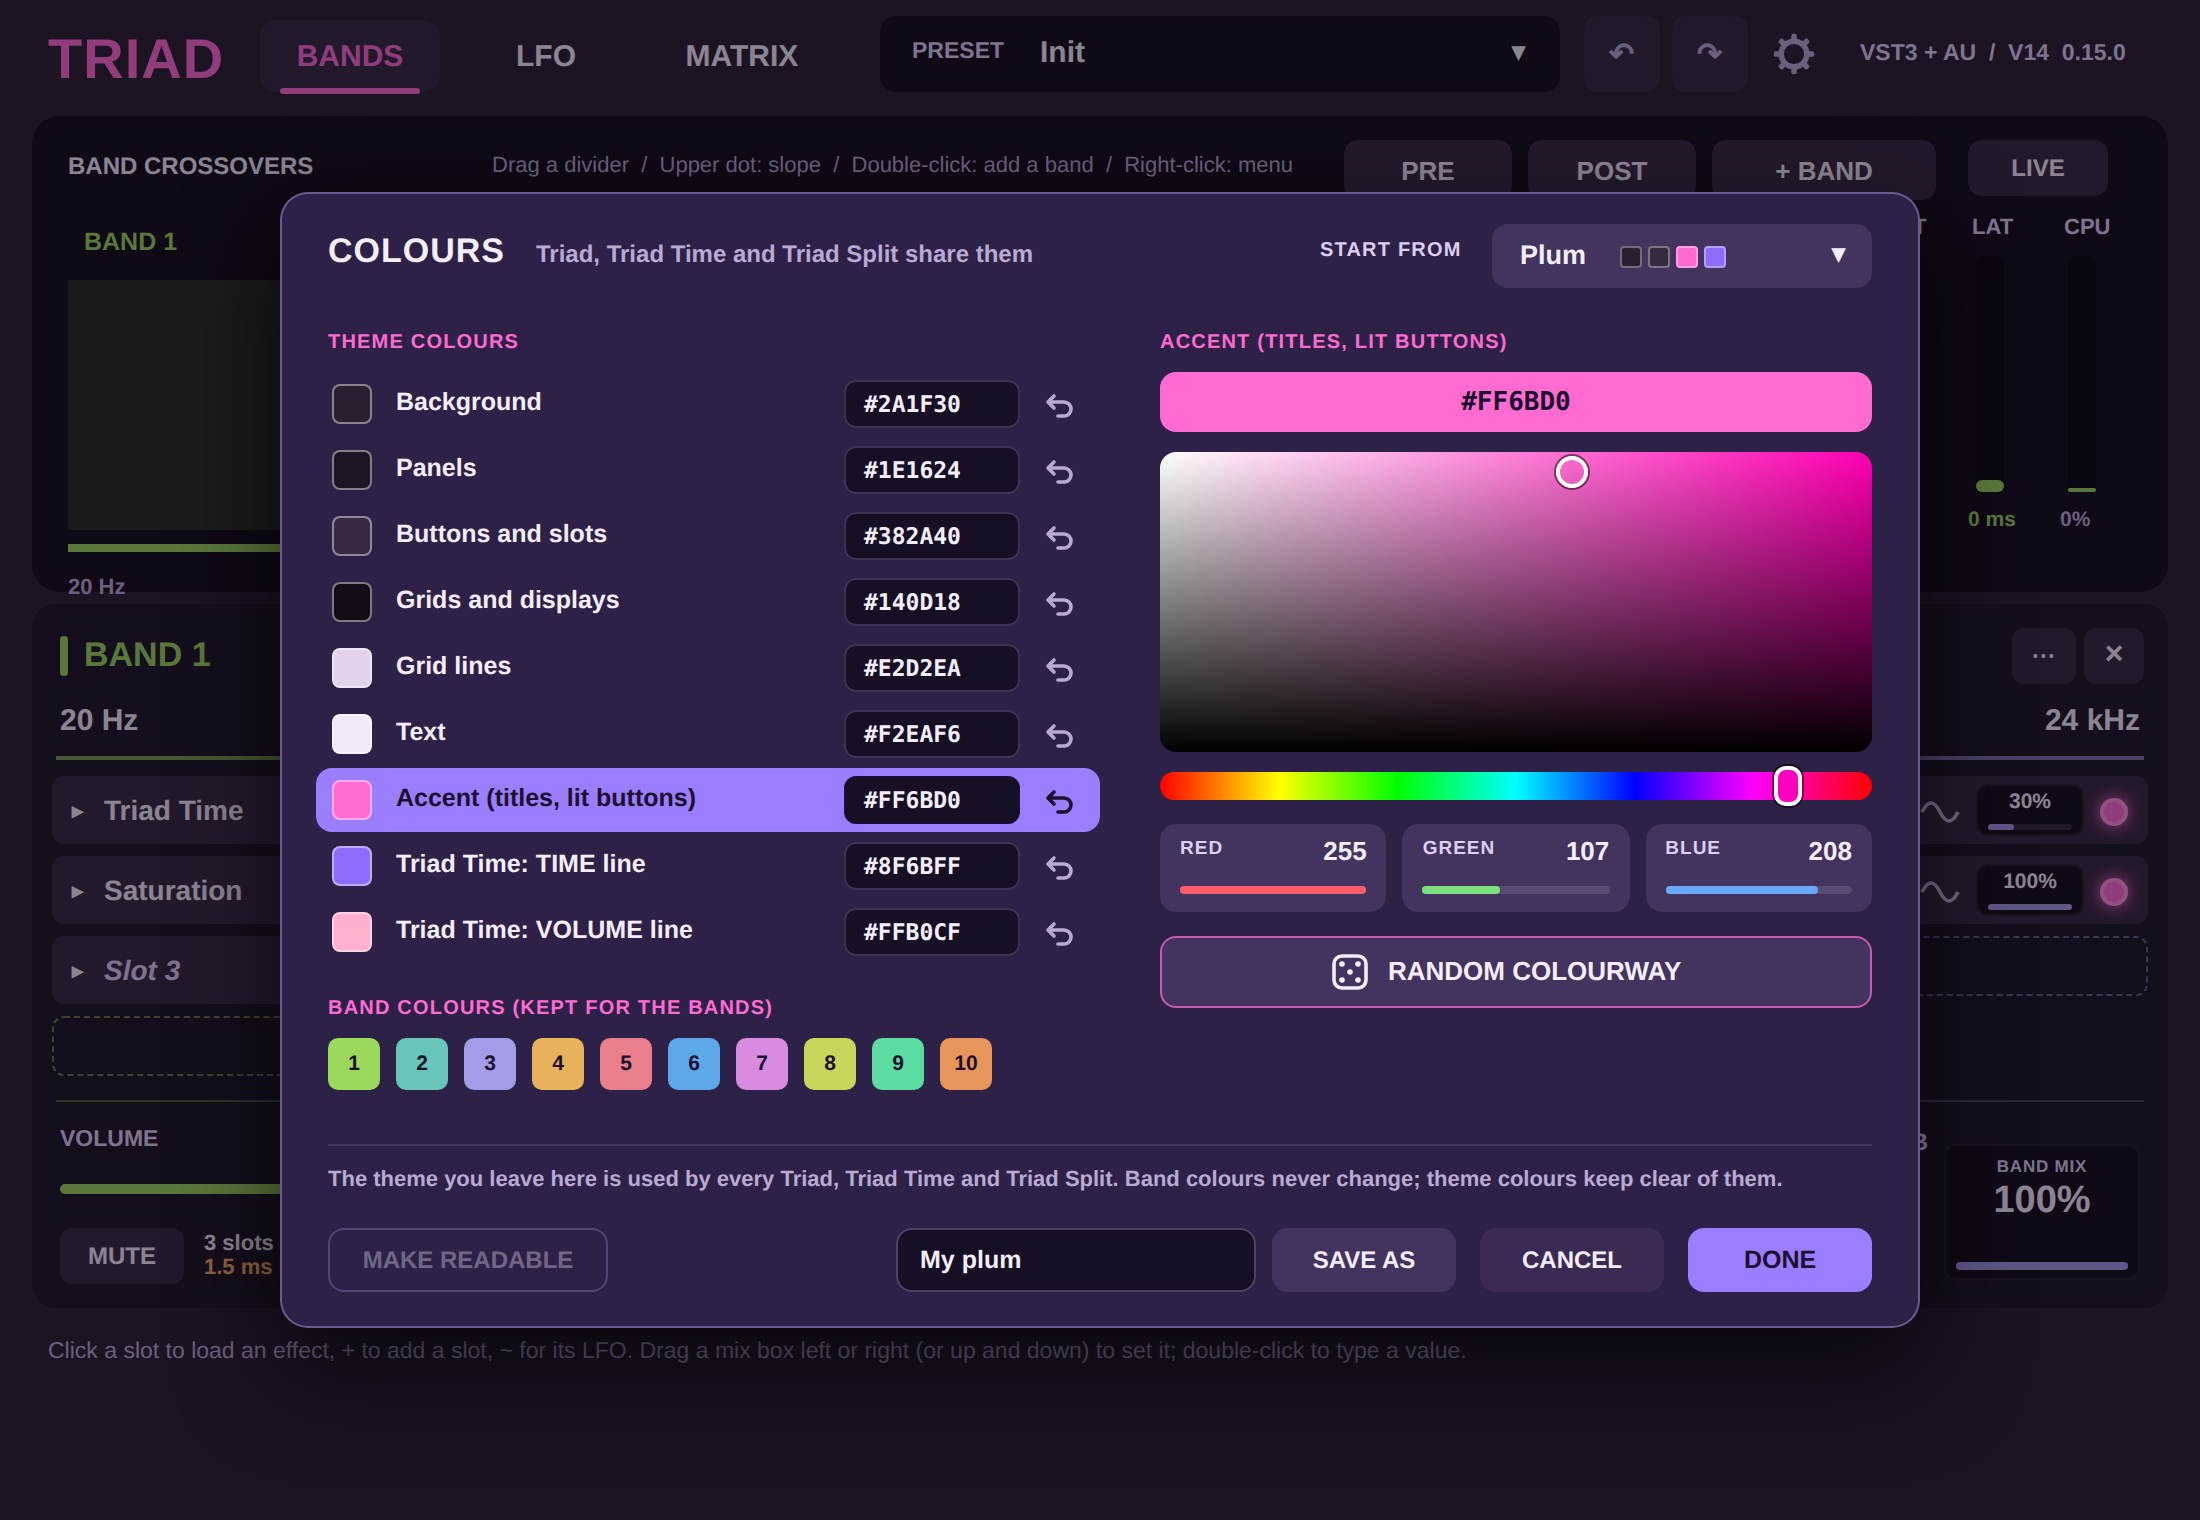
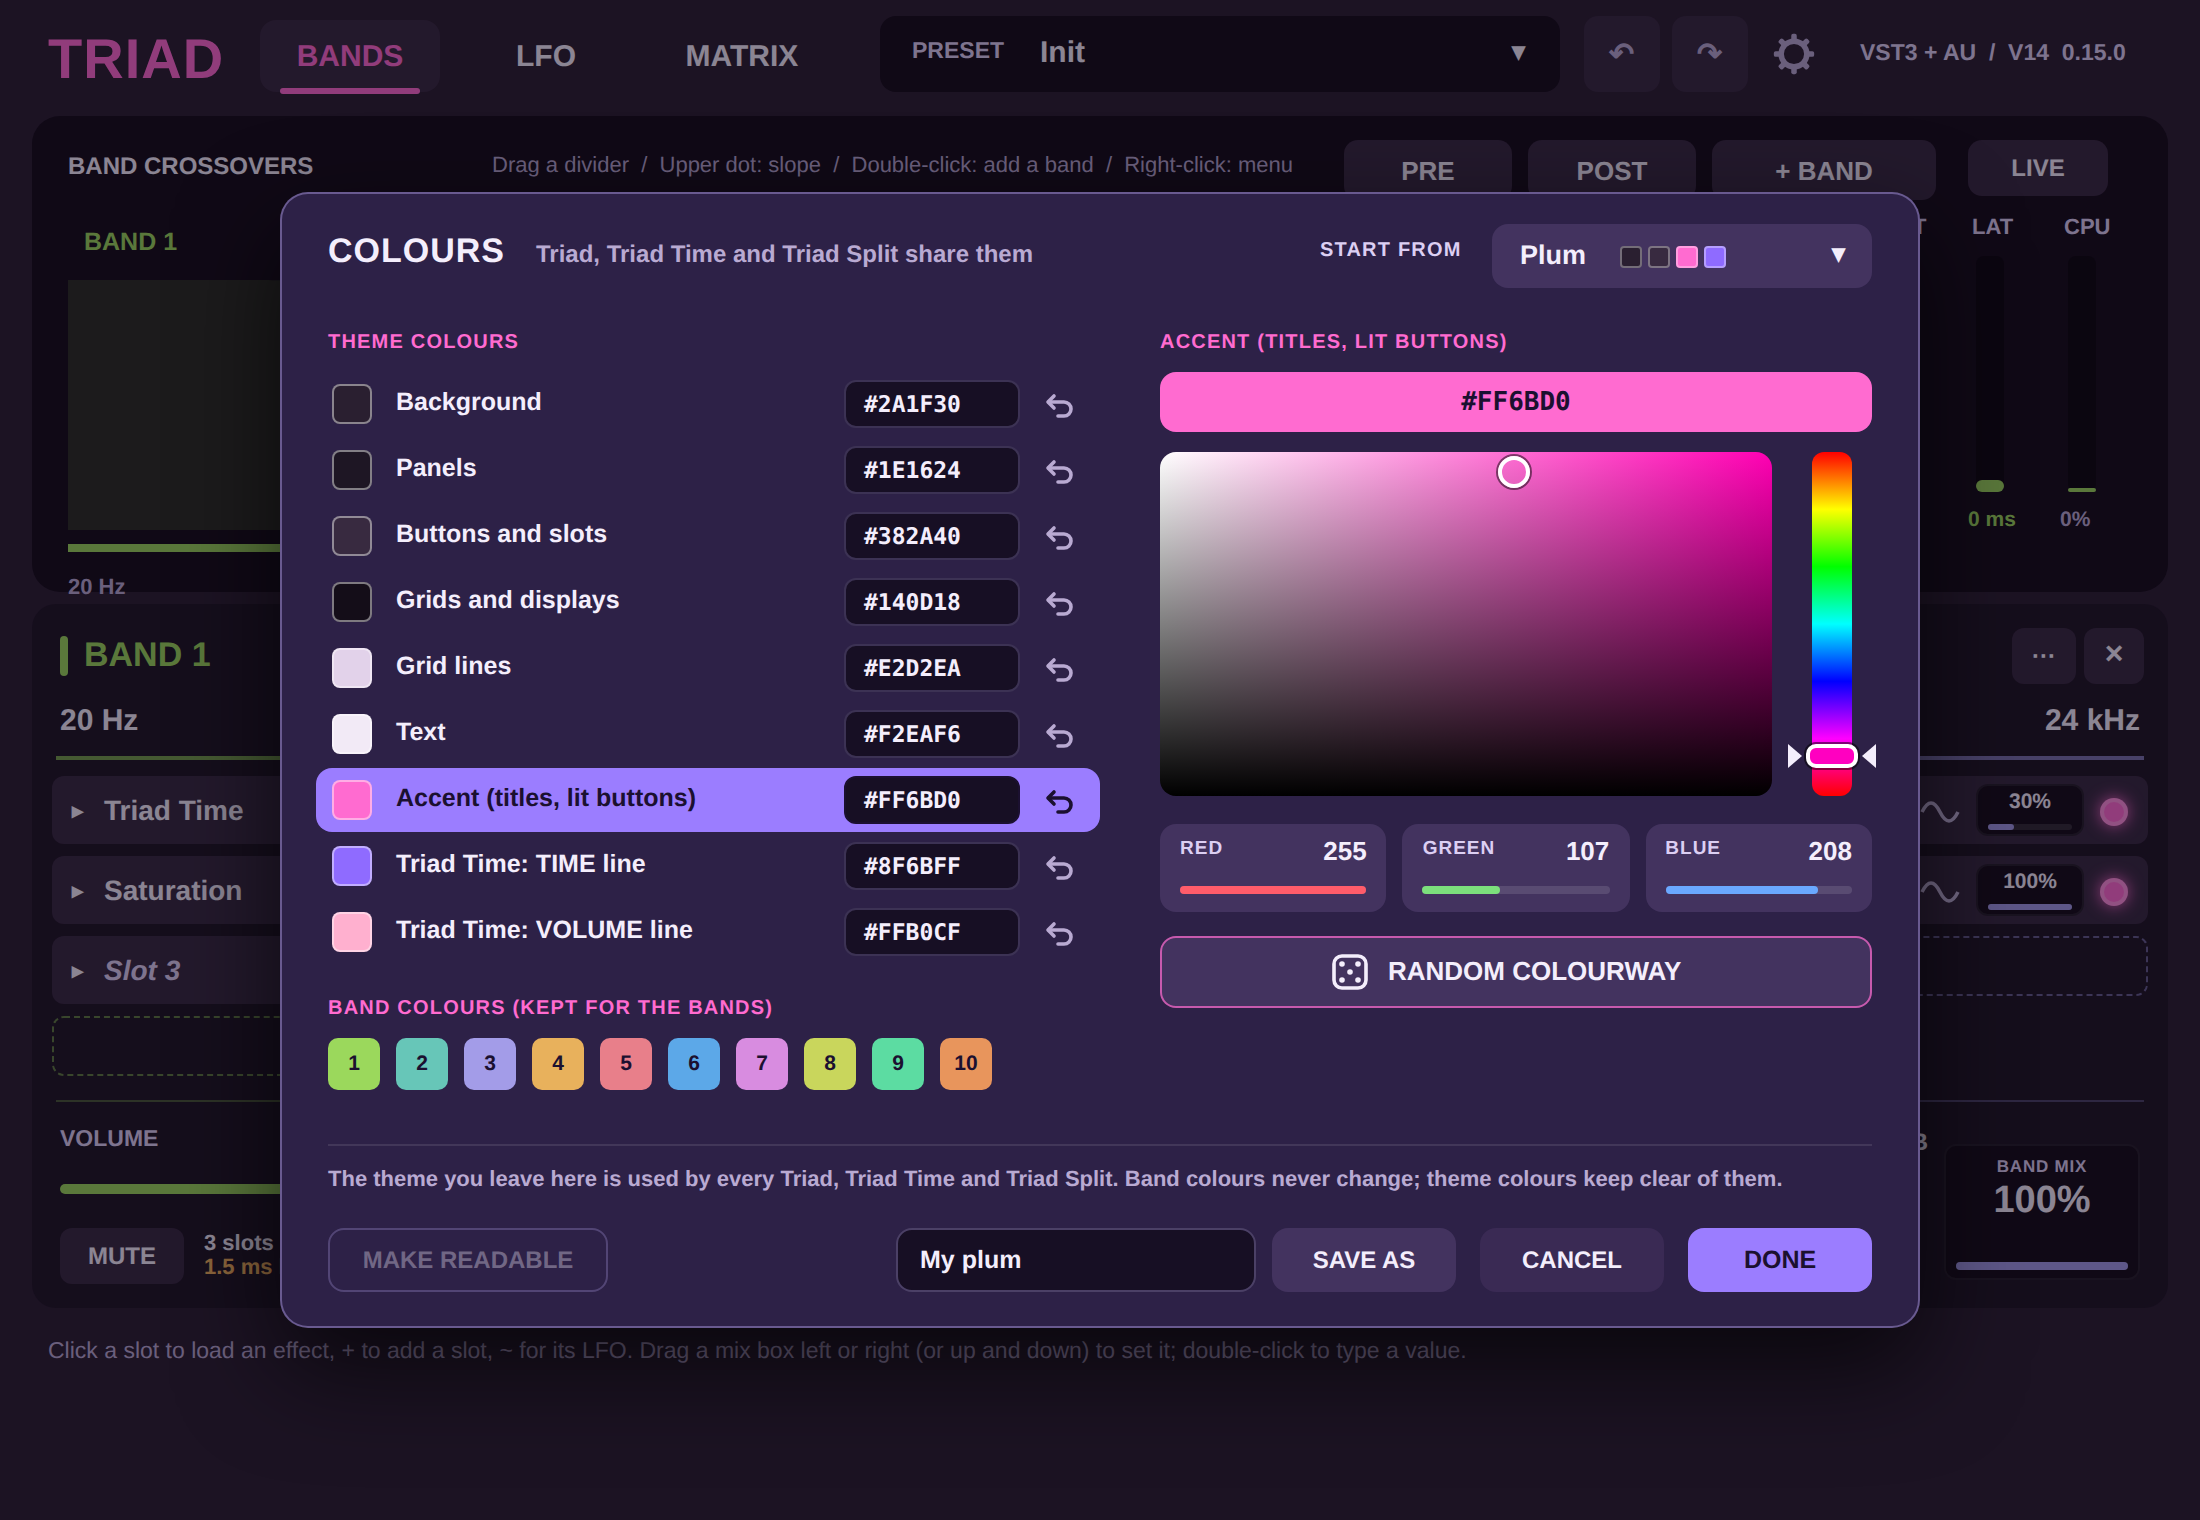
Mock-up: the colour editor's hue bar beside the square, as now [skip ci]
Claude-Session: https://claude.ai/code/session_01Tek1NN8SMheak5Z3vXff3g

Changed region(s): [[0.5255, 0.2783, 0.8655, 0.5257]]

diff --git a/tools/mockups/build8.py b/tools/mockups/build8.py
@@ -391,14 +391,17 @@ def colours_panel(menu_open=False):
     out += text(rx, ry0, 'ACCENT (TITLES, LIT BUTTONS)', 10, C['pink'], 800, 'letter-spacing:0.6px;')
     out += box(rx, ry0 + 20, rw, 30, '#FF6BD0', 'background:#ff6bd0;border-radius:8px;color:#1b1030;font-size:13px;font-weight:800;'
                                                 'display:flex;align-items:center;justify-content:center;font-family:Menlo,monospace;')
-    sq_y = ry0 + 60
-    out += box(rx, sq_y, rw, 150, '', 'border-radius:8px;background:linear-gradient(to top,#000,rgba(0,0,0,0)),linear-gradient(to right,#fff,hsl(318,100%,50%));')
-    out += box(rx + rw * 0.58 - 8, sq_y + 2, 16, 16, '', 'border:2.5px solid #fff;border-radius:9px;box-shadow:0 0 0 1px rgba(0,0,0,0.5);box-sizing:border-box;')
-    hy = sq_y + 160
-    out += box(rx, hy, rw, 14, '', 'border-radius:7px;background:linear-gradient(to right,#f00,#ff0,#0f0,#0ff,#00f,#f0f,#f00);')
-    hx = rx + rw * 318 / 360
-    out += box(hx - 7, hy - 3, 14, 20, '', 'background:#ff00c0;border:2.5px solid #fff;border-radius:6px;box-shadow:0 0 0 1px rgba(0,0,0,0.5);box-sizing:border-box;')
-    vy = hy + 26
+    # the colour square, and the hue bar standing beside it (Thomas: on the side, as now, not underneath)
+    sq_y, sq_h, sq_w = ry0 + 60, 172, rw - 50
+    out += box(rx, sq_y, sq_w, sq_h, '', 'border-radius:8px;background:linear-gradient(to top,#000,rgba(0,0,0,0)),linear-gradient(to right,#fff,hsl(318,100%,50%));')
+    out += box(rx + sq_w * 0.58 - 8, sq_y + 2, 16, 16, '', 'border:2.5px solid #fff;border-radius:9px;box-shadow:0 0 0 1px rgba(0,0,0,0.5);box-sizing:border-box;')
+    hx = rx + rw - 30
+    out += box(hx, sq_y, 20, sq_h, '', 'border-radius:6px;background:linear-gradient(to bottom,#f00,#ff0,#0f0,#0ff,#00f,#f0f,#f00);')
+    hy = sq_y + sq_h * 318 / 360
+    out += box(hx - 3, hy - 6, 26, 12, '', 'background:#ff00c0;border:2.5px solid #fff;border-radius:5px;box-shadow:0 0 0 1px rgba(0,0,0,0.5);box-sizing:border-box;')
+    out += (f'<svg style="position:absolute;left:{hx - 12}px;top:{hy - 6}px" width="44" height="12" viewBox="0 0 44 12">'
+            f'<path d="M0 0 L7 6 L0 12 Z" fill="#f4eefc"/><path d="M44 0 L37 6 L44 12 Z" fill="#f4eefc"/></svg>')
+    vy = sq_y + sq_h + 14
     vw = (rw - 16) / 3
     out += value_box(rx, vy, vw, 'RED', '255', 1.0, '#ff5c6a')
     out += value_box(rx + vw + 8, vy, vw, 'GREEN', '107', 107 / 255, '#7ce07c')

diff --git a/ROADMAP.md b/ROADMAP.md
@@ -175,7 +175,7 @@ Also (Thomas):
   colours stay easy to tell apart. `0 BANDS - Plum dark band area.png`.
 - **The colour editor (Custom), cleaner, same layout.** He likes its layout and wants it cleaner (this replaces "the
   colour editor stays as it is"): the nine colours on the left (colour, name, hex, back-to-Triad's), the band colours
-  under them, the chosen colour's picker on the right drawn by Triad (a square, a hue strip, RED / GREEN / BLUE boxes
+  under them, the chosen colour's picker on the right drawn by Triad (a square with the hue bar standing beside it, as now; RED / GREEN / BLUE boxes
   with meters, instead of the grey sliders), RANDOM COLOURWAY, then MAKE READABLE, the name, SAVE AS, CANCEL, DONE;
   START FROM as a menu in the new look. `8 COLOURS - Custom.png`, `9 COLOURS - Start from open.png`.
 - **Colour previews are squares, not circles**: the theme swatches in the menus, the nine colours, the band colours.
